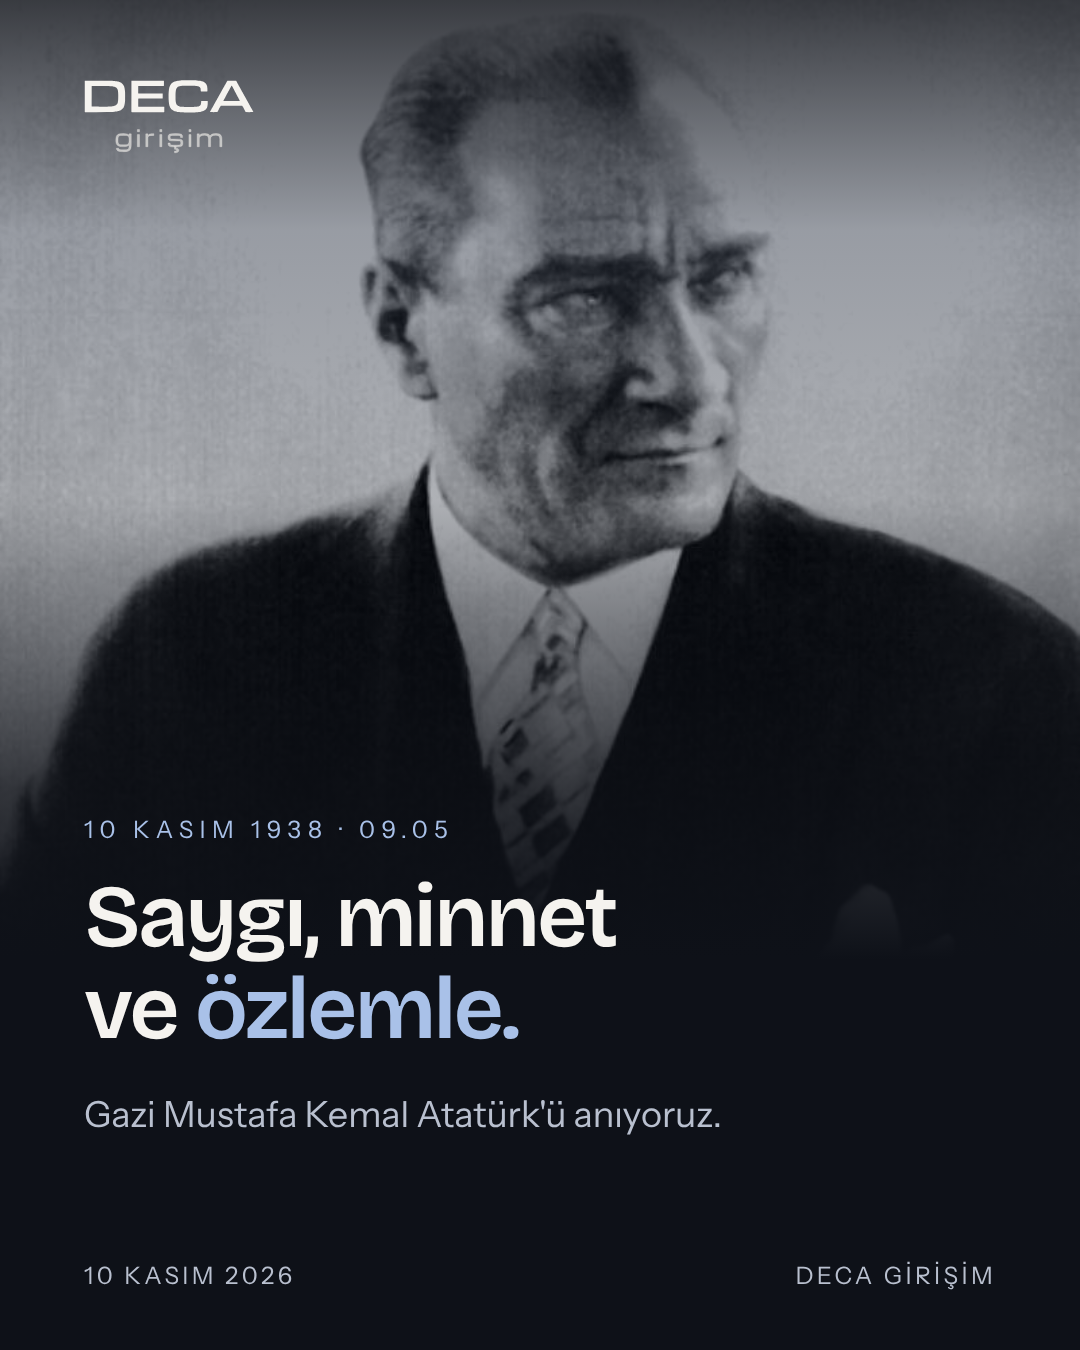
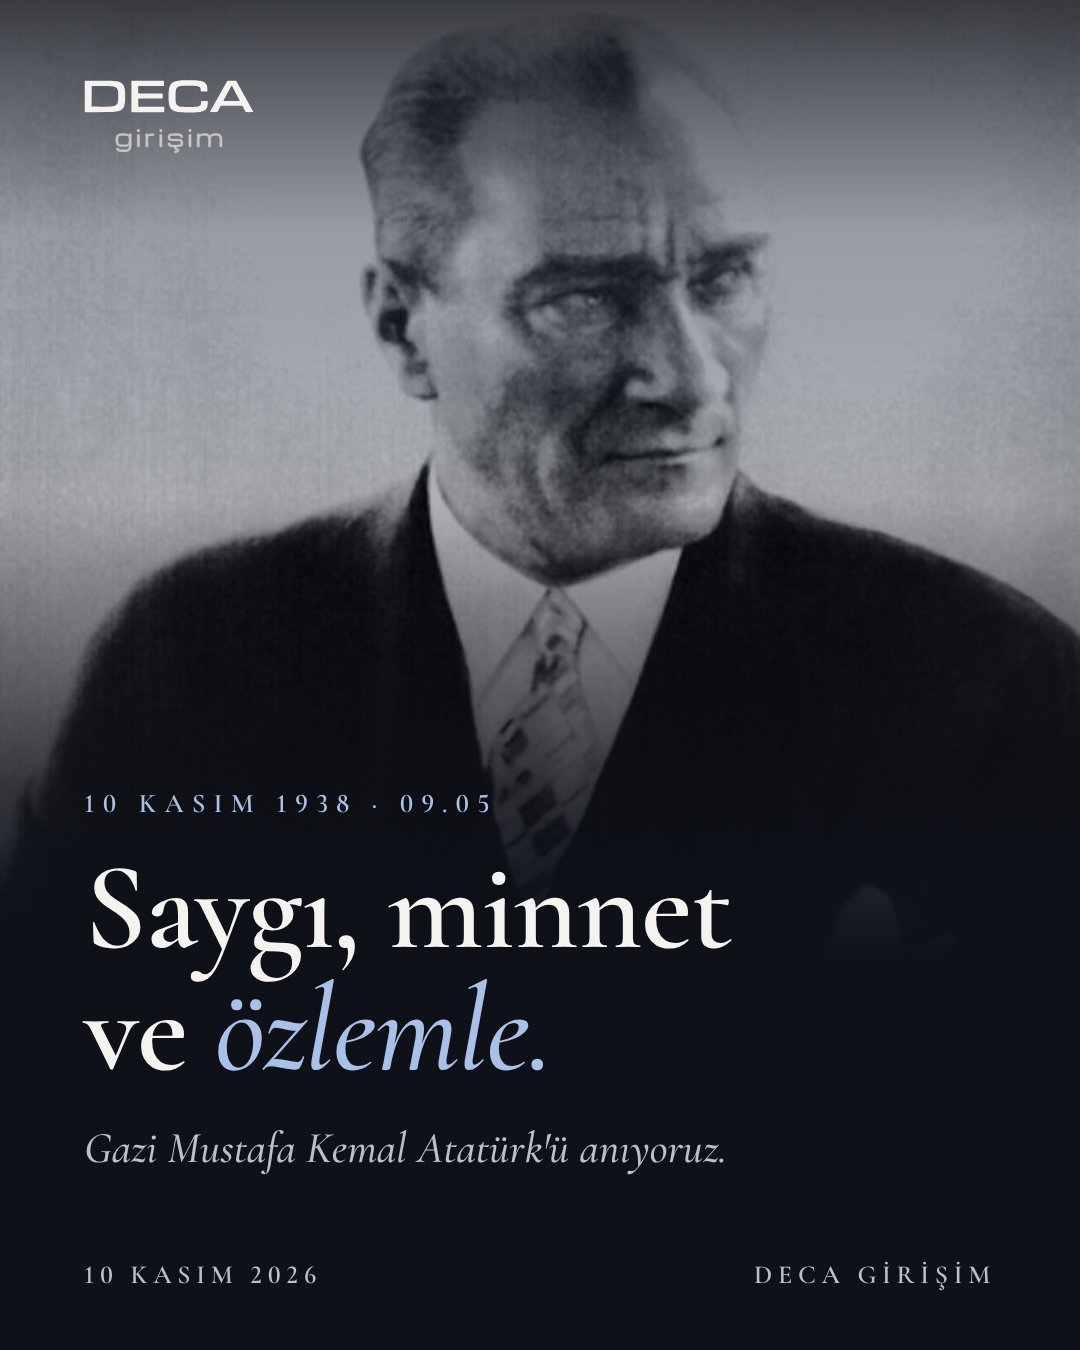
LinkedIn 10 Kasım görseli: serif tipografi (Cormorant Garamond)
Claude-Session: https://claude.ai/code/session_01SUaSkioN3EpdK1mZnDbC7P

Changed region(s): [[0.0611, 0.5911, 0.6722, 0.8711], [0.7028, 0.9333, 0.9167, 0.9644], [0.0917, 0.9333, 0.275, 0.9644]]

diff --git a/04-Sosyal-Medya-Icerik/deca-ventures/linkedin-10-kasim-anma.md b/04-Sosyal-Medya-Icerik/deca-ventures/linkedin-10-kasim-anma.md
@@ -14,7 +14,7 @@ related: ["[[00-Musteriler/deca-ventures/marka-brief]]"]
 
 > **İstek (10 Kas 2026, Şevval):** Deca Girişim LinkedIn sayfası için 10 Kasım gönderisi, tek görsel. 10 Kasım Atatürk'ü Anma Günü olduğu için sade bir anma gönderisi hazırlandı; ürün/tanıtım, "sen" dili ve slogan **bilerek yok** (marka brief'indeki canlı ton bu gün için uygulanmadı, kurumsal sakin dil kullanıldı).
 
-**Görsel:** `03-Assets/images/deca-ventures/linkedin/deca-linkedin-10-kasim-ataturk.png` (1080×1350, 4:5). Şevval'in verdiği siyah-beyaz Atatürk portresi üstte (yalnız ölçeklendi, tek tonlandı ve koyu bir geçişle zemine karıştırıldı; yüze rötuş yok), altında koyu zemin, "Saygı, minnet ve özlemle." başlığı, tarih ve Deca Girişim logosu. Kaynak fotoğraf vault'a konmadı (kaynak: Şevval'in sağladığı dosya, resmî arşiv olduğu ❓ doğrulanacak).
+**Görsel:** `03-Assets/images/deca-ventures/linkedin/deca-linkedin-10-kasim-ataturk.png` (1080×1350, 4:5). Şevval'in verdiği siyah-beyaz Atatürk portresi üstte (yalnız ölçeklendi, tek tonlandı ve koyu bir geçişle zemine karıştırıldı; yüze rötuş yok), altında koyu zemin, "Saygı, minnet ve özlemle." başlığı (Cormorant Garamond serif, "özlemle." italik buz mavisi), tarih ve Deca Girişim logosu. Yazı tipi: site fontu (Bricolage/Instrument Sans) anma günü için fazla "web" bulunduğundan serife çevrildi (Şevval isteği, 10 Kas). Kaynak fotoğraf vault'a konmadı (kaynak: Şevval'in sağladığı dosya, resmî arşiv olduğu ❓ doğrulanacak).
 *Değişiklik (10 Kas, Şevval isteği):* ilk sürüm fotoğrafsız tipografik "10" tasarımıydı; "10" yazısı ve Atatürk görselinin olmaması uygun bulunmadı, bu yüzden fotoğraflı sürümle değiştirildi.
 
 ## Gönderi metni
